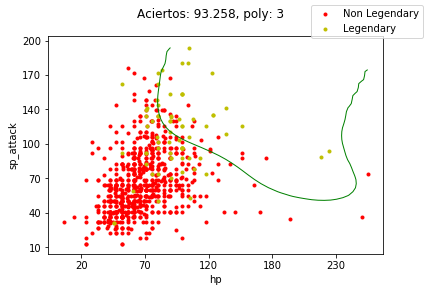
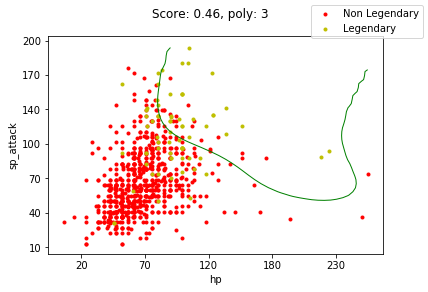
Regresion: legendarios Fin (esta de verdad)
añadido true score que no me habia dado cuenta de que no estaba

Changed region(s): [[0.3037, 0.0308, 0.6682, 0.0616]]

diff --git a/Proyecto_Final/regresionLogistica_legendarios.py b/Proyecto_Final/regresionLogistica_legendarios.py
@@ -44,15 +44,6 @@ def g(z):
     """
     return 1/(1 + np.exp(-z))
 
-def swapColumns(X):
-    Xinv = np.array(np.transpose(X))
-
-    auxTr = np.array(Xinv[0])
-    Xinv[0] = Xinv[1]
-    Xinv[1] = auxTr
-    Xinv = np.transpose(Xinv)
-    
-    return Xinv
 
 def draw_data(X, Y):
     pos = np.where(Y == 0)[0] #vector with index of the Y = 1
@@ -76,7 +67,7 @@ def format_graphic (figure, ax, graphic_attr_names, score, polyDegree, sigma, mu
     #formatting the graphic with some labels
     plt.xlabel(graphic_attr_names[0])
     plt.ylabel(graphic_attr_names[1])
-    plt.suptitle(("Aciertos: " + str(float("{0:.3f}".format(score))) + ", poly: " + str(polyDegree)))
+    plt.suptitle(("Score: " + str(float("{0:.3f}".format(score))) + ", poly: " + str(polyDegree)))
     figure.legend()
     
     #set the labels to non-normalized values
@@ -101,15 +92,32 @@ def draw(theta, X, Y, poly, graphic_attr_names, score, polyDegree, sigma, mu):
     
     plt.show()
 
-def training_examples_test_with_theta(X, Y, theta):
-    test = g(np.dot(X, np.transpose(theta)))
-    test = np.around(test)
-    test = np.reshape(test, (np.shape(test)[0], 1))
-    mask = (Y == test)
-    return (len(Y[mask])/len(Y)) * 100 
+def checkLearned(X, Y, theta):     
+    checker = g(np.dot(X, np.transpose(theta)))
+    checker = np.around(checker)
+    checker = np.reshape(checker, (np.shape(checker)[0], 1))
+    truePositives = 0
+    falsePositives = 0
+    falseNegatives = 0
+    
+    for i in range(np.size(checker)):
+        if checker[i] == 1 and y[i] == 1:
+            truePositives += 1
+        elif checker[i] == 1 and y[i] == 0:
+            falsePositives += 1
+        elif checker[i] == 0 and y[i] == 1:
+            falseNegatives += 1    
+    
+    if truePositives == 0:
+        return 0
+        
+    recall = (truePositives/(truePositives + falseNegatives)) 
+    precision = (truePositives/(truePositives + falsePositives))
+    score = 2 *(precision*recall/(precision + recall))
 
+    return score
 
-graphic_attr_names = ["capture_rate", "percentage_male"]
+graphic_attr_names = ["capture_rate", "base_egg_steps"]
 X, y = Data_Management.load_csv_svm("pokemon.csv", graphic_attr_names)
 X, mu, sigma = Normalization.normalize_data_matrix(X)
 
@@ -122,8 +130,8 @@ allMaxElev = []
 allMaxPoly = []
 allMaxThetas = []
 
-Xused = X
-Yused = y
+Xused = trainX
+Yused = trainY
 
 for t in range(NUM_TRIES):
     i = 1
@@ -136,7 +144,7 @@ for t in range(NUM_TRIES):
     
     theta = tnc(func=J, x0=theta, fprime=gradient, args=(X_poly, Yused))[0]
     
-    currentPercent = training_examples_test_with_theta(X_poly, Yused, theta)
+    currentPercent = checkLearned(X_poly, Yused, theta)
 
     while currentPercent > maxPercent:
         maxPercent =  currentPercent
@@ -148,7 +156,7 @@ for t in range(NUM_TRIES):
         
         theta = tnc(func=J, x0=theta, fprime=gradient, args=(X_poly, Yused))[0]
         
-        currentPercent = training_examples_test_with_theta(X_poly, Yused, theta)
+        currentPercent = checkLearned(X_poly, Yused, theta)
         
     allMaxPercent.append(maxPercent)
     allMaxElev.append(polyMaxPercent)
